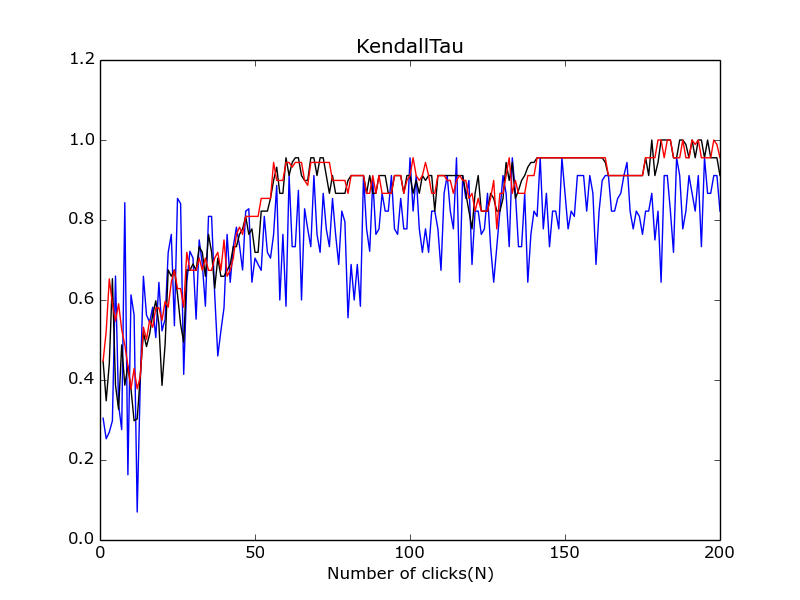
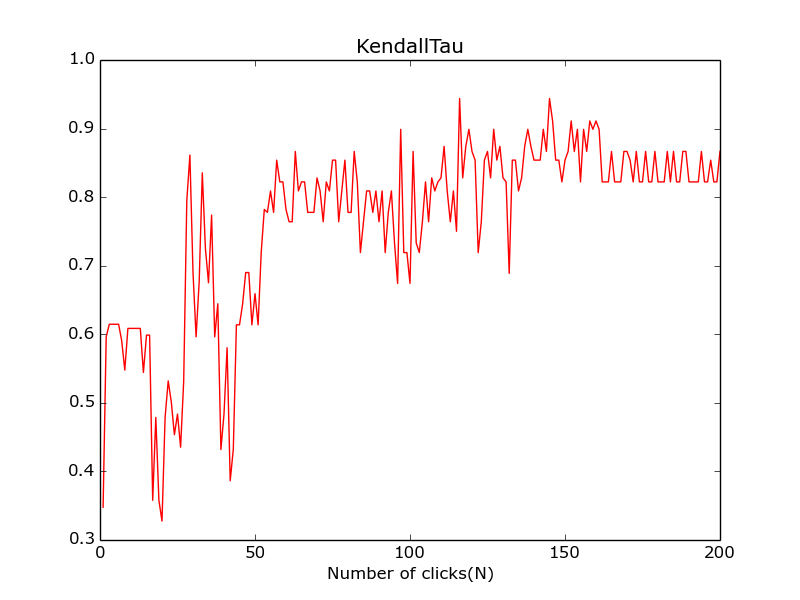
Major: User parameter PHI is now incorporated into the model and new function added for this new objective function and its gradient + some minor changes

diff --git a/ver2/runModelSim.py b/ver2/runModelSim.py
@@ -18,22 +18,25 @@ voteHist3 = [[0, [0, 1, 2, 3]], [0, [0, 1, 2, 3]], [0, [0, 1, 2, 3]], [0, [0, 1,
 #visualize.visualizeScat(voteHist5)
 #visualize.barPlot(simulation.runModel(voteHist5,len(voteHist5[-1][-1])))
 
-#print "6"
-#voteHist6 = [[0, [0, 1, 2]], [0, [0, 1, 2]], [0, [0, 1, 2]], [0, [0, 1, 2]], [0, [0, 1, 2, 3, 4]], [0, [0, 1, 2, 3, 4]], [0, [0, 1, 2, 3, 4, 5, 6, 7, 8, 9, 10]], [0, [0, 1, 2, 3, 4, 5, 6, 7, 8, 9, 10]], [0, [0, 1, 2, 3, 4, 5, 6, 7, 8, 9, 10]], [0, [0, 1, 2, 3, 4, 5, 6, 7, 8, 9, 10]], [0, [0, 1, 2, 3, 4, 5, 6, 7, 8, 9, 10]], [0, [0, 1, 2, 3, 4, 5, 6, 7, 8, 9, 10, 11, 12, 13, 14]], [0, [0, 1, 2, 3, 4, 5, 6, 7, 8, 9, 10, 11, 12, 13, 14]], [0, [0, 1, 2, 3, 4, 5, 6, 7, 8, 9, 10, 11, 12, 13, 14, 15, 16]], [0, [0, 1, 2, 3, 4, 5, 6, 7, 8, 9, 10, 11, 12, 13, 14, 15, 16, 17, 18, 19, 20]], [0, [0, 1, 2, 3, 4, 5, 6, 7, 8, 9, 10, 11, 12, 13, 14, 15, 16, 17, 18, 19, 20]], [0, [0, 1, 2, 3, 4, 5, 6, 7, 8, 9, 10, 11, 12, 13, 14, 15, 16, 17, 18, 19, 20, 21]], [1, [0, 1, 2]], [1, [0, 1, 2]], [1, [0, 1, 2]], [1, [0, 1, 2]], [1, [0, 1, 2]], [1, [0, 1, 2, 3, 4]], [1, [0, 1, 2, 3, 4]], [1, [0, 1, 2, 3, 4, 5, 6, 7, 8, 9, 10]], [1, [0, 1, 2, 3, 4, 5, 6, 7, 8, 9, 10]], [1, [0, 1, 2, 3, 4, 5, 6, 7, 8, 9, 10]], [1, [0, 1, 2, 3, 4, 5, 6, 7, 8, 9, 10]], [1, [0, 1, 2, 3, 4, 5, 6, 7, 8, 9, 10]], [1, [0, 1, 2, 3, 4, 5, 6, 7, 8, 9, 10]], [1, [0, 1, 2, 3, 4, 5, 6, 7, 8, 9, 10]], [1, [0, 1, 2, 3, 4, 5, 6, 7, 8, 9, 10]], [1, [0, 1, 2, 3, 4, 5, 6, 7, 8, 9, 10, 11, 12]], [1, [0, 1, 2, 3, 4, 5, 6, 7, 8, 9, 10, 11, 12]], [1, [0, 1, 2, 3, 4, 5, 6, 7, 8, 9, 10, 11, 12]], [1, [0, 1, 2, 3, 4, 5, 6, 7, 8, 9, 10, 11, 12, 13, 14]], [1, [0, 1, 2, 3, 4, 5, 6, 7, 8, 9, 10, 11, 12, 13, 14]], [1, [0, 1, 2, 3, 4, 5, 6, 7, 8, 9, 10, 11, 12, 13, 14]], [1, [0, 1, 2, 3, 4, 5, 6, 7, 8, 9, 10, 11, 12, 13, 14, 15, 16]], [1, [0, 1, 2, 3, 4, 5, 6, 7, 8, 9, 10, 11, 12, 13, 14, 15, 16, 17]], [1, [0, 1, 2, 3, 4, 5, 6, 7, 8, 9, 10, 11, 12, 13, 14, 15, 16, 17, 18, 19]], [1, [0, 1, 2, 3, 4, 5, 6, 7, 8, 9, 10, 11, 12, 13, 14, 15, 16, 17, 18, 19]], [1, [0, 1, 2, 3, 4, 5, 6, 7, 8, 9, 10, 11, 12, 13, 14, 15, 16, 17, 18, 19, 20]], [1, [0, 1, 2, 3, 4, 5, 6, 7, 8, 9, 10, 11, 12, 13, 14, 15, 16, 17, 18, 19, 20]], [1, [0, 1, 2, 3, 4, 5, 6, 7, 8, 9, 10, 11, 12, 13, 14, 15, 16, 17, 18, 19, 20]], [1, [0, 1, 2, 3, 4, 5, 6, 7, 8, 9, 10, 11, 12, 13, 14, 15, 16, 17, 18, 19, 20, 21]], [1, [0, 1, 2, 3, 4, 5, 6, 7, 8, 9, 10, 11, 12, 13, 14, 15, 16, 17, 18, 19, 20, 21]], [1, [0, 1, 2, 3, 4, 5, 6, 7, 8, 9, 10, 11, 12, 13, 14, 15, 16, 17, 18, 19, 20, 21]], [2, [0, 1, 2]], [2, [0, 1, 2]], [2, [0, 1, 2]], [2, [0, 1, 2]], [2, [0, 1, 2, 3, 4]], [2, [0, 1, 2, 3, 4]], [2, [0, 1, 2, 3, 4, 5, 6, 7, 8, 9, 10]], [2, [0, 1, 2, 3, 4, 5, 6, 7, 8, 9, 10]], [2, [0, 1, 2, 3, 4, 5, 6, 7, 8, 9, 10]], [2, [0, 1, 2, 3, 4, 5, 6, 7, 8, 9, 10]], [2, [0, 1, 2, 3, 4, 5, 6, 7, 8, 9, 10]], [2, [0, 1, 2, 3, 4, 5, 6, 7, 8, 9, 10]], [2, [0, 1, 2, 3, 4, 5, 6, 7, 8, 9, 10, 11, 12, 13, 14]], [2, [0, 1, 2, 3, 4, 5, 6, 7, 8, 9, 10, 11, 12, 13, 14, 15, 16]], [2, [0, 1, 2, 3, 4, 5, 6, 7, 8, 9, 10, 11, 12, 13, 14, 15, 16, 17, 18, 19, 20]], [2, [0, 1, 2, 3, 4, 5, 6, 7, 8, 9, 10, 11, 12, 13, 14, 15, 16, 17, 18, 19, 20]], [2, [0, 1, 2, 3, 4, 5, 6, 7, 8, 9, 10, 11, 12, 13, 14, 15, 16, 17, 18, 19, 20, 21]], [3, [0, 1, 2, 3]], [3, [0, 1, 2, 3, 4]], [3, [0, 1, 2, 3, 4]], [3, [0, 1, 2, 3, 4]], [3, [0, 1, 2, 3, 4]], [3, [0, 1, 2, 3, 4, 5, 6]], [3, [0, 1, 2, 3, 4, 5, 6, 7, 8, 9, 10]], [3, [0, 1, 2, 3, 4, 5, 6, 7, 8, 9, 10]], [3, [0, 1, 2, 3, 4, 5, 6, 7, 8, 9, 10]], [3, [0, 1, 2, 3, 4, 5, 6, 7, 8, 9, 10]], [3, [0, 1, 2, 3, 4, 5, 6, 7, 8, 9, 10]], [3, [0, 1, 2, 3, 4, 5, 6, 7, 8, 9, 10]], [3, [0, 1, 2, 3, 4, 5, 6, 7, 8, 9, 10]], [3, [0, 1, 2, 3, 4, 5, 6, 7, 8, 9, 10]], [3, [0, 1, 2, 3, 4, 5, 6, 7, 8, 9, 10]], [3, [0, 1, 2, 3, 4, 5, 6, 7, 8, 9, 10, 11, 12]], [3, [0, 1, 2, 3, 4, 5, 6, 7, 8, 9, 10, 11, 12]], [3, [0, 1, 2, 3, 4, 5, 6, 7, 8, 9, 10, 11, 12, 13, 14]], [3, [0, 1, 2, 3, 4, 5, 6, 7, 8, 9, 10, 11, 12, 13, 14, 15, 16]], [3, [0, 1, 2, 3, 4, 5, 6, 7, 8, 9, 10, 11, 12, 13, 14, 15, 16, 17]], [3, [0, 1, 2, 3, 4, 5, 6, 7, 8, 9, 10, 11, 12, 13, 14, 15, 16, 17, 18, 19]], [3, [0, 1, 2, 3, 4, 5, 6, 7, 8, 9, 10, 11, 12, 13, 14, 15, 16, 17, 18, 19, 20]], [3, [0, 1, 2, 3, 4, 5, 6, 7, 8, 9, 10, 11, 12, 13, 14, 15, 16, 17, 18, 19, 20]], [3, [0, 1, 2, 3, 4, 5, 6, 7, 8, 9, 10, 11, 12, 13, 14, 15, 16, 17, 18, 19, 20, 21]], [3, [0, 1, 2, 3, 4, 5, 6, 7, 8, 9, 10, 11, 12, 13, 14, 15, 16, 17, 18, 19, 20, 21]], [3, [0, 1, 2, 3, 4, 5, 6, 7, 8, 9, 10, 11, 12, 13, 14, 15, 16, 17, 18, 19, 20, 21]], [4, [0, 1, 2, 3, 4]], [4, [0, 1, 2, 3, 4]], [4, [0, 1, 2, 3, 4]], [4, [0, 1, 2, 3, 4, 5, 6, 7, 8, 9, 10]], [4, [0, 1, 2, 3, 4, 5, 6, 7, 8, 9, 10]], [4, [0, 1, 2, 3, 4, 5, 6, 7, 8, 9, 10]], [4, [0, 1, 2, 3, 4, 5, 6, 7, 8, 9, 10]], [4, [0, 1, 2, 3, 4, 5, 6, 7, 8, 9, 10, 11, 12, 13, 14]], [4, [0, 1, 2, 3, 4, 5, 6, 7, 8, 9, 10, 11, 12, 13, 14, 15, 16, 17, 18, 19]], [4, [0, 1, 2, 3, 4, 5, 6, 7, 8, 9, 10, 11, 12, 13, 14, 15, 16, 17, 18, 19, 20]], [4, [0, 1, 2, 3, 4, 5, 6, 7, 8, 9, 10, 11, 12, 13, 14, 15, 16, 17, 18, 19, 20]], [4, [0, 1, 2, 3, 4, 5, 6, 7, 8, 9, 10, 11, 12, 13, 14, 15, 16, 17, 18, 19, 20, 21]], [4, [0, 1, 2, 3, 4, 5, 6, 7, 8, 9, 10, 11, 12, 13, 14, 15, 16, 17, 18, 19, 20, 21]], [5, [0, 1, 2, 3, 4, 5]], [5, [0, 1, 2, 3, 4, 5]], [5, [0, 1, 2, 3, 4, 5, 6, 7, 8, 9, 10]], [5, [0, 1, 2, 3, 4, 5, 6, 7, 8, 9, 10]], [5, [0, 1, 2, 3, 4, 5, 6, 7, 8, 9, 10, 11, 12, 13]], [5, [0, 1, 2, 3, 4, 5, 6, 7, 8, 9, 10, 11, 12, 13, 14, 15, 16, 17, 18, 19, 20]], [5, [0, 1, 2, 3, 4, 5, 6, 7, 8, 9, 10, 11, 12, 13, 14, 15, 16, 17, 18, 19, 20]], [5, [0, 1, 2, 3, 4, 5, 6, 7, 8, 9, 10, 11, 12, 13, 14, 15, 16, 17, 18, 19, 20, 21]], [5, [0, 1, 2, 3, 4, 5, 6, 7, 8, 9, 10, 11, 12, 13, 14, 15, 16, 17, 18, 19, 20, 21]], [6, [0, 1, 2, 3, 4, 5, 6]], [6, [0, 1, 2, 3, 4, 5, 6]], [6, [0, 1, 2, 3, 4, 5, 6, 7, 8, 9, 10]], [6, [0, 1, 2, 3, 4, 5, 6, 7, 8, 9, 10]], [6, [0, 1, 2, 3, 4, 5, 6, 7, 8, 9, 10]], [6, [0, 1, 2, 3, 4, 5, 6, 7, 8, 9, 10]], [6, [0, 1, 2, 3, 4, 5, 6, 7, 8, 9, 10, 11, 12, 13, 14, 15, 16, 17, 18, 19, 20]], [6, [0, 1, 2, 3, 4, 5, 6, 7, 8, 9, 10, 11, 12, 13, 14, 15, 16, 17, 18, 19, 20]], [6, [0, 1, 2, 3, 4, 5, 6, 7, 8, 9, 10, 11, 12, 13, 14, 15, 16, 17, 18, 19, 20, 21]], [7, [0, 1, 2, 3, 4, 5, 6, 7, 8, 9, 10]], [7, [0, 1, 2, 3, 4, 5, 6, 7, 8, 9, 10]], [7, [0, 1, 2, 3, 4, 5, 6, 7, 8, 9, 10]], [7, [0, 1, 2, 3, 4, 5, 6, 7, 8, 9, 10]], [7, [0, 1, 2, 3, 4, 5, 6, 7, 8, 9, 10, 11, 12, 13, 14, 15, 16, 17, 18, 19, 20]], [7, [0, 1, 2, 3, 4, 5, 6, 7, 8, 9, 10, 11, 12, 13, 14, 15, 16, 17, 18, 19, 20]], [7, [0, 1, 2, 3, 4, 5, 6, 7, 8, 9, 10, 11, 12, 13, 14, 15, 16, 17, 18, 19, 20, 21]], [7, [0, 1, 2, 3, 4, 5, 6, 7, 8, 9, 10, 11, 12, 13, 14, 15, 16, 17, 18, 19, 20, 21]], [8, [0, 1, 2, 3, 4, 5, 6, 7, 8, 9, 10]], [8, [0, 1, 2, 3, 4, 5, 6, 7, 8, 9, 10]], [8, [0, 1, 2, 3, 4, 5, 6, 7, 8, 9, 10]], [8, [0, 1, 2, 3, 4, 5, 6, 7, 8, 9, 10]], [8, [0, 1, 2, 3, 4, 5, 6, 7, 8, 9, 10]], [8, [0, 1, 2, 3, 4, 5, 6, 7, 8, 9, 10]], [8, [0, 1, 2, 3, 4, 5, 6, 7, 8, 9, 10, 11, 12, 13, 14]], [8, [0, 1, 2, 3, 4, 5, 6, 7, 8, 9, 10, 11, 12, 13, 14, 15, 16, 17, 18, 19, 20]], [8, [0, 1, 2, 3, 4, 5, 6, 7, 8, 9, 10, 11, 12, 13, 14, 15, 16, 17, 18, 19, 20]], [8, [0, 1, 2, 3, 4, 5, 6, 7, 8, 9, 10, 11, 12, 13, 14, 15, 16, 17, 18, 19, 20, 21]], [8, [0, 1, 2, 3, 4, 5, 6, 7, 8, 9, 10, 11, 12, 13, 14, 15, 16, 17, 18, 19, 20, 21]], [9, [0, 1, 2, 3, 4, 5, 6, 7, 8, 9, 10]], [9, [0, 1, 2, 3, 4, 5, 6, 7, 8, 9, 10]], [9, [0, 1, 2, 3, 4, 5, 6, 7, 8, 9, 10]], [9, [0, 1, 2, 3, 4, 5, 6, 7, 8, 9, 10, 11, 12, 13, 14, 15, 16, 17, 18, 19, 20]], [9, [0, 1, 2, 3, 4, 5, 6, 7, 8, 9, 10, 11, 12, 13, 14, 15, 16, 17, 18, 19, 20]], [9, [0, 1, 2, 3, 4, 5, 6, 7, 8, 9, 10, 11, 12, 13, 14, 15, 16, 17, 18, 19, 20, 21]], [10, [0, 1, 2, 3, 4, 5, 6, 7, 8, 9, 10]], [10, [0, 1, 2, 3, 4, 5, 6, 7, 8, 9, 10]], [10, [0, 1, 2, 3, 4, 5, 6, 7, 8, 9, 10]], [10, [0, 1, 2, 3, 4, 5, 6, 7, 8, 9, 10]], [10, [0, 1, 2, 3, 4, 5, 6, 7, 8, 9, 10]], [10, [0, 1, 2, 3, 4, 5, 6, 7, 8, 9, 10]], [10, [0, 1, 2, 3, 4, 5, 6, 7, 8, 9, 10, 11, 12, 13, 14, 15, 16, 17, 18, 19, 20]], [10, [0, 1, 2, 3, 4, 5, 6, 7, 8, 9, 10, 11, 12, 13, 14, 15, 16, 17, 18, 19, 20, 21]], [10, [0, 1, 2, 3, 4, 5, 6, 7, 8, 9, 10, 11, 12, 13, 14, 15, 16, 17, 18, 19, 20, 21]], [11, [0, 1, 2, 3, 4, 5, 6, 7, 8, 9, 10, 11]], [11, [0, 1, 2, 3, 4, 5, 6, 7, 8, 9, 10, 11]], [11, [0, 1, 2, 3, 4, 5, 6, 7, 8, 9, 10, 11, 12, 13, 14, 15, 16, 17, 18, 19, 20]], [11, [0, 1, 2, 3, 4, 5, 6, 7, 8, 9, 10, 11, 12, 13, 14, 15, 16, 17, 18, 19, 20]], [11, [0, 1, 2, 3, 4, 5, 6, 7, 8, 9, 10, 11, 12, 13, 14, 15, 16, 17, 18, 19, 20, 21]], [11, [0, 1, 2, 3, 4, 5, 6, 7, 8, 9, 10, 11, 12, 13, 14, 15, 16, 17, 18, 19, 20, 21]], [12, [0, 1, 2, 3, 4, 5, 6, 7, 8, 9, 10, 11, 12]], [12, [0, 1, 2, 3, 4, 5, 6, 7, 8, 9, 10, 11, 12]], [12, [0, 1, 2, 3, 4, 5, 6, 7, 8, 9, 10, 11, 12, 13, 14, 15, 16, 17, 18, 19, 20]], [12, [0, 1, 2, 3, 4, 5, 6, 7, 8, 9, 10, 11, 12, 13, 14, 15, 16, 17, 18, 19, 20]], [12, [0, 1, 2, 3, 4, 5, 6, 7, 8, 9, 10, 11, 12, 13, 14, 15, 16, 17, 18, 19, 20, 21]], [12, [0, 1, 2, 3, 4, 5, 6, 7, 8, 9, 10, 11, 12, 13, 14, 15, 16, 17, 18, 19, 20, 21]], [13, [0, 1, 2, 3, 4, 5, 6, 7, 8, 9, 10, 11, 12, 13]], [13, [0, 1, 2, 3, 4, 5, 6, 7, 8, 9, 10, 11, 12, 13]], [13, [0, 1, 2, 3, 4, 5, 6, 7, 8, 9, 10, 11, 12, 13, 14]], [13, [0, 1, 2, 3, 4, 5, 6, 7, 8, 9, 10, 11, 12, 13, 14, 15, 16, 17, 18, 19]], [13, [0, 1, 2, 3, 4, 5, 6, 7, 8, 9, 10, 11, 12, 13, 14, 15, 16, 17, 18, 19, 20]], [13, [0, 1, 2, 3, 4, 5, 6, 7, 8, 9, 10, 11, 12, 13, 14, 15, 16, 17, 18, 19, 20]], [13, [0, 1, 2, 3, 4, 5, 6, 7, 8, 9, 10, 11, 12, 13, 14, 15, 16, 17, 18, 19, 20, 21]], [13, [0, 1, 2, 3, 4, 5, 6, 7, 8, 9, 10, 11, 12, 13, 14, 15, 16, 17, 18, 19, 20, 21]], [14, [0, 1, 2, 3, 4, 5, 6, 7, 8, 9, 10, 11, 12, 13, 14]], [14, [0, 1, 2, 3, 4, 5, 6, 7, 8, 9, 10, 11, 12, 13, 14, 15, 16, 17, 18, 19, 20]], [14, [0, 1, 2, 3, 4, 5, 6, 7, 8, 9, 10, 11, 12, 13, 14, 15, 16, 17, 18, 19, 20]], [14, [0, 1, 2, 3, 4, 5, 6, 7, 8, 9, 10, 11, 12, 13, 14, 15, 16, 17, 18, 19, 20, 21]], [14, [0, 1, 2, 3, 4, 5, 6, 7, 8, 9, 10, 11, 12, 13, 14, 15, 16, 17, 18, 19, 20, 21]], [15, [0, 1, 2, 3, 4, 5, 6, 7, 8, 9, 10, 11, 12, 13, 14, 15]], [15, [0, 1, 2, 3, 4, 5, 6, 7, 8, 9, 10, 11, 12, 13, 14, 15, 16, 17, 18, 19, 20]], [15, [0, 1, 2, 3, 4, 5, 6, 7, 8, 9, 10, 11, 12, 13, 14, 15, 16, 17, 18, 19, 20]], [15, [0, 1, 2, 3, 4, 5, 6, 7, 8, 9, 10, 11, 12, 13, 14, 15, 16, 17, 18, 19, 20, 21]], [15, [0, 1, 2, 3, 4, 5, 6, 7, 8, 9, 10, 11, 12, 13, 14, 15, 16, 17, 18, 19, 20, 21]], [16, [0, 1, 2, 3, 4, 5, 6, 7, 8, 9, 10, 11, 12, 13, 14, 15, 16]], [16, [0, 1, 2, 3, 4, 5, 6, 7, 8, 9, 10, 11, 12, 13, 14, 15, 16]], [16, [0, 1, 2, 3, 4, 5, 6, 7, 8, 9, 10, 11, 12, 13, 14, 15, 16, 17, 18, 19]], [16, [0, 1, 2, 3, 4, 5, 6, 7, 8, 9, 10, 11, 12, 13, 14, 15, 16, 17, 18, 19, 20]], [16, [0, 1, 2, 3, 4, 5, 6, 7, 8, 9, 10, 11, 12, 13, 14, 15, 16, 17, 18, 19, 20]], [16, [0, 1, 2, 3, 4, 5, 6, 7, 8, 9, 10, 11, 12, 13, 14, 15, 16, 17, 18, 19, 20, 21]], [16, [0, 1, 2, 3, 4, 5, 6, 7, 8, 9, 10, 11, 12, 13, 14, 15, 16, 17, 18, 19, 20, 21]], [17, [0, 1, 2, 3, 4, 5, 6, 7, 8, 9, 10, 11, 12, 13, 14, 15, 16, 17, 18, 19, 20, 21]], [18, [0, 1, 2, 3, 4, 5, 6, 7, 8, 9, 10, 11, 12, 13, 14, 15, 16, 17, 18, 19, 20]], [18, [0, 1, 2, 3, 4, 5, 6, 7, 8, 9, 10, 11, 12, 13, 14, 15, 16, 17, 18, 19, 20, 21]], [18, [0, 1, 2, 3, 4, 5, 6, 7, 8, 9, 10, 11, 12, 13, 14, 15, 16, 17, 18, 19, 20, 21]], [19, [0, 1, 2, 3, 4, 5, 6, 7, 8, 9, 10, 11, 12, 13, 14, 15, 16, 17, 18, 19]], [19, [0, 1, 2, 3, 4, 5, 6, 7, 8, 9, 10, 11, 12, 13, 14, 15, 16, 17, 18, 19]], [19, [0, 1, 2, 3, 4, 5, 6, 7, 8, 9, 10, 11, 12, 13, 14, 15, 16, 17, 18, 19, 20]], [19, [0, 1, 2, 3, 4, 5, 6, 7, 8, 9, 10, 11, 12, 13, 14, 15, 16, 17, 18, 19, 20]], [19, [0, 1, 2, 3, 4, 5, 6, 7, 8, 9, 10, 11, 12, 13, 14, 15, 16, 17, 18, 19, 20]], [19, [0, 1, 2, 3, 4, 5, 6, 7, 8, 9, 10, 11, 12, 13, 14, 15, 16, 17, 18, 19, 20, 21]], [19, [0, 1, 2, 3, 4, 5, 6, 7, 8, 9, 10, 11, 12, 13, 14, 15, 16, 17, 18, 19, 20, 21]], [20, [0, 1, 2, 3, 4, 5, 6, 7, 8, 9, 10, 11, 12, 13, 14, 15, 16, 17, 18, 19, 20]], [20, [0, 1, 2, 3, 4, 5, 6, 7, 8, 9, 10, 11, 12, 13, 14, 15, 16, 17, 18, 19, 20]], [20, [0, 1, 2, 3, 4, 5, 6, 7, 8, 9, 10, 11, 12, 13, 14, 15, 16, 17, 18, 19, 20]], [20, [0, 1, 2, 3, 4, 5, 6, 7, 8, 9, 10, 11, 12, 13, 14, 15, 16, 17, 18, 19, 20, 21]], [20, [0, 1, 2, 3, 4, 5, 6, 7, 8, 9, 10, 11, 12, 13, 14, 15, 16, 17, 18, 19, 20, 21]], [21, [0, 1, 2, 3, 4, 5, 6, 7, 8, 9, 10, 11, 12, 13, 14, 15, 16, 17, 18, 19, 20, 21]], [21, [0, 1, 2, 3, 4, 5, 6, 7, 8, 9, 10, 11, 12, 13, 14, 15, 16, 17, 18, 19, 20, 21]], [21, [0, 1, 2, 3, 4, 5, 6, 7, 8, 9, 10, 11, 12, 13, 14, 15, 16, 17, 18, 19, 20, 21]]]
-#visualize.visualizeScat(voteHist6)
-#visualize.barPlot(simulation.runModel(voteHist6,len(voteHist6[-1][-1])))
-#
-#print "7"
-#voteHist7 = [[0, [0, 1, 2]], [0, [0, 1, 2]], [0, [0, 1, 2, 3, 4]], [0, [0, 1, 2, 3, 4]], [1, [0, 1, 2]], [1, [0, 1, 2]], [1, [0, 1, 2, 3]], [1, [0, 1, 2, 3, 4]], [1, [0, 1, 2, 3, 4]], [1, [0, 1, 2, 3, 4]], [3, [0, 1, 2, 3, 4]], [3, [0, 1, 2, 3, 4]], [3, [0, 1, 2, 3, 4]], [3, [0, 1, 2, 3, 4]], [4, [0, 1, 2, 3, 4]], [4, [0, 1, 2, 3, 4]], [4, [0, 1, 2, 3, 4]], [4, [0, 1, 2, 3, 4]], [4, [0, 1, 2, 3, 4]], [4, [0, 1, 2, 3, 4]], [4, [0, 1, 2, 3, 4]]]
-#visualize.visualizeScat(voteHist7)
-#visualize.barPlot(simulation.runModel(voteHist7,len(voteHist7[-1][-1])))
+print "6"
+voteHist6 = [[0, [0, 1, 2]], [0, [0, 1, 2]], [0, [0, 1, 2]], [0, [0, 1, 2]], [0, [0, 1, 2, 3, 4]], [0, [0, 1, 2, 3, 4]], [0, [0, 1, 2, 3, 4, 5, 6, 7, 8, 9, 10]], [0, [0, 1, 2, 3, 4, 5, 6, 7, 8, 9, 10]], [0, [0, 1, 2, 3, 4, 5, 6, 7, 8, 9, 10]], [0, [0, 1, 2, 3, 4, 5, 6, 7, 8, 9, 10]], [0, [0, 1, 2, 3, 4, 5, 6, 7, 8, 9, 10]], [0, [0, 1, 2, 3, 4, 5, 6, 7, 8, 9, 10, 11, 12, 13, 14]], [0, [0, 1, 2, 3, 4, 5, 6, 7, 8, 9, 10, 11, 12, 13, 14]], [0, [0, 1, 2, 3, 4, 5, 6, 7, 8, 9, 10, 11, 12, 13, 14, 15, 16]], [0, [0, 1, 2, 3, 4, 5, 6, 7, 8, 9, 10, 11, 12, 13, 14, 15, 16, 17, 18, 19, 20]], [0, [0, 1, 2, 3, 4, 5, 6, 7, 8, 9, 10, 11, 12, 13, 14, 15, 16, 17, 18, 19, 20]], [0, [0, 1, 2, 3, 4, 5, 6, 7, 8, 9, 10, 11, 12, 13, 14, 15, 16, 17, 18, 19, 20, 21]], [1, [0, 1, 2]], [1, [0, 1, 2]], [1, [0, 1, 2]], [1, [0, 1, 2]], [1, [0, 1, 2]], [1, [0, 1, 2, 3, 4]], [1, [0, 1, 2, 3, 4]], [1, [0, 1, 2, 3, 4, 5, 6, 7, 8, 9, 10]], [1, [0, 1, 2, 3, 4, 5, 6, 7, 8, 9, 10]], [1, [0, 1, 2, 3, 4, 5, 6, 7, 8, 9, 10]], [1, [0, 1, 2, 3, 4, 5, 6, 7, 8, 9, 10]], [1, [0, 1, 2, 3, 4, 5, 6, 7, 8, 9, 10]], [1, [0, 1, 2, 3, 4, 5, 6, 7, 8, 9, 10]], [1, [0, 1, 2, 3, 4, 5, 6, 7, 8, 9, 10]], [1, [0, 1, 2, 3, 4, 5, 6, 7, 8, 9, 10]], [1, [0, 1, 2, 3, 4, 5, 6, 7, 8, 9, 10, 11, 12]], [1, [0, 1, 2, 3, 4, 5, 6, 7, 8, 9, 10, 11, 12]], [1, [0, 1, 2, 3, 4, 5, 6, 7, 8, 9, 10, 11, 12]], [1, [0, 1, 2, 3, 4, 5, 6, 7, 8, 9, 10, 11, 12, 13, 14]], [1, [0, 1, 2, 3, 4, 5, 6, 7, 8, 9, 10, 11, 12, 13, 14]], [1, [0, 1, 2, 3, 4, 5, 6, 7, 8, 9, 10, 11, 12, 13, 14]], [1, [0, 1, 2, 3, 4, 5, 6, 7, 8, 9, 10, 11, 12, 13, 14, 15, 16]], [1, [0, 1, 2, 3, 4, 5, 6, 7, 8, 9, 10, 11, 12, 13, 14, 15, 16, 17]], [1, [0, 1, 2, 3, 4, 5, 6, 7, 8, 9, 10, 11, 12, 13, 14, 15, 16, 17, 18, 19]], [1, [0, 1, 2, 3, 4, 5, 6, 7, 8, 9, 10, 11, 12, 13, 14, 15, 16, 17, 18, 19]], [1, [0, 1, 2, 3, 4, 5, 6, 7, 8, 9, 10, 11, 12, 13, 14, 15, 16, 17, 18, 19, 20]], [1, [0, 1, 2, 3, 4, 5, 6, 7, 8, 9, 10, 11, 12, 13, 14, 15, 16, 17, 18, 19, 20]], [1, [0, 1, 2, 3, 4, 5, 6, 7, 8, 9, 10, 11, 12, 13, 14, 15, 16, 17, 18, 19, 20]], [1, [0, 1, 2, 3, 4, 5, 6, 7, 8, 9, 10, 11, 12, 13, 14, 15, 16, 17, 18, 19, 20, 21]], [1, [0, 1, 2, 3, 4, 5, 6, 7, 8, 9, 10, 11, 12, 13, 14, 15, 16, 17, 18, 19, 20, 21]], [1, [0, 1, 2, 3, 4, 5, 6, 7, 8, 9, 10, 11, 12, 13, 14, 15, 16, 17, 18, 19, 20, 21]], [2, [0, 1, 2]], [2, [0, 1, 2]], [2, [0, 1, 2]], [2, [0, 1, 2]], [2, [0, 1, 2, 3, 4]], [2, [0, 1, 2, 3, 4]], [2, [0, 1, 2, 3, 4, 5, 6, 7, 8, 9, 10]], [2, [0, 1, 2, 3, 4, 5, 6, 7, 8, 9, 10]], [2, [0, 1, 2, 3, 4, 5, 6, 7, 8, 9, 10]], [2, [0, 1, 2, 3, 4, 5, 6, 7, 8, 9, 10]], [2, [0, 1, 2, 3, 4, 5, 6, 7, 8, 9, 10]], [2, [0, 1, 2, 3, 4, 5, 6, 7, 8, 9, 10]], [2, [0, 1, 2, 3, 4, 5, 6, 7, 8, 9, 10, 11, 12, 13, 14]], [2, [0, 1, 2, 3, 4, 5, 6, 7, 8, 9, 10, 11, 12, 13, 14, 15, 16]], [2, [0, 1, 2, 3, 4, 5, 6, 7, 8, 9, 10, 11, 12, 13, 14, 15, 16, 17, 18, 19, 20]], [2, [0, 1, 2, 3, 4, 5, 6, 7, 8, 9, 10, 11, 12, 13, 14, 15, 16, 17, 18, 19, 20]], [2, [0, 1, 2, 3, 4, 5, 6, 7, 8, 9, 10, 11, 12, 13, 14, 15, 16, 17, 18, 19, 20, 21]], [3, [0, 1, 2, 3]], [3, [0, 1, 2, 3, 4]], [3, [0, 1, 2, 3, 4]], [3, [0, 1, 2, 3, 4]], [3, [0, 1, 2, 3, 4]], [3, [0, 1, 2, 3, 4, 5, 6]], [3, [0, 1, 2, 3, 4, 5, 6, 7, 8, 9, 10]], [3, [0, 1, 2, 3, 4, 5, 6, 7, 8, 9, 10]], [3, [0, 1, 2, 3, 4, 5, 6, 7, 8, 9, 10]], [3, [0, 1, 2, 3, 4, 5, 6, 7, 8, 9, 10]], [3, [0, 1, 2, 3, 4, 5, 6, 7, 8, 9, 10]], [3, [0, 1, 2, 3, 4, 5, 6, 7, 8, 9, 10]], [3, [0, 1, 2, 3, 4, 5, 6, 7, 8, 9, 10]], [3, [0, 1, 2, 3, 4, 5, 6, 7, 8, 9, 10]], [3, [0, 1, 2, 3, 4, 5, 6, 7, 8, 9, 10]], [3, [0, 1, 2, 3, 4, 5, 6, 7, 8, 9, 10, 11, 12]], [3, [0, 1, 2, 3, 4, 5, 6, 7, 8, 9, 10, 11, 12]], [3, [0, 1, 2, 3, 4, 5, 6, 7, 8, 9, 10, 11, 12, 13, 14]], [3, [0, 1, 2, 3, 4, 5, 6, 7, 8, 9, 10, 11, 12, 13, 14, 15, 16]], [3, [0, 1, 2, 3, 4, 5, 6, 7, 8, 9, 10, 11, 12, 13, 14, 15, 16, 17]], [3, [0, 1, 2, 3, 4, 5, 6, 7, 8, 9, 10, 11, 12, 13, 14, 15, 16, 17, 18, 19]], [3, [0, 1, 2, 3, 4, 5, 6, 7, 8, 9, 10, 11, 12, 13, 14, 15, 16, 17, 18, 19, 20]], [3, [0, 1, 2, 3, 4, 5, 6, 7, 8, 9, 10, 11, 12, 13, 14, 15, 16, 17, 18, 19, 20]], [3, [0, 1, 2, 3, 4, 5, 6, 7, 8, 9, 10, 11, 12, 13, 14, 15, 16, 17, 18, 19, 20, 21]], [3, [0, 1, 2, 3, 4, 5, 6, 7, 8, 9, 10, 11, 12, 13, 14, 15, 16, 17, 18, 19, 20, 21]], [3, [0, 1, 2, 3, 4, 5, 6, 7, 8, 9, 10, 11, 12, 13, 14, 15, 16, 17, 18, 19, 20, 21]], [4, [0, 1, 2, 3, 4]], [4, [0, 1, 2, 3, 4]], [4, [0, 1, 2, 3, 4]], [4, [0, 1, 2, 3, 4, 5, 6, 7, 8, 9, 10]], [4, [0, 1, 2, 3, 4, 5, 6, 7, 8, 9, 10]], [4, [0, 1, 2, 3, 4, 5, 6, 7, 8, 9, 10]], [4, [0, 1, 2, 3, 4, 5, 6, 7, 8, 9, 10]], [4, [0, 1, 2, 3, 4, 5, 6, 7, 8, 9, 10, 11, 12, 13, 14]], [4, [0, 1, 2, 3, 4, 5, 6, 7, 8, 9, 10, 11, 12, 13, 14, 15, 16, 17, 18, 19]], [4, [0, 1, 2, 3, 4, 5, 6, 7, 8, 9, 10, 11, 12, 13, 14, 15, 16, 17, 18, 19, 20]], [4, [0, 1, 2, 3, 4, 5, 6, 7, 8, 9, 10, 11, 12, 13, 14, 15, 16, 17, 18, 19, 20]], [4, [0, 1, 2, 3, 4, 5, 6, 7, 8, 9, 10, 11, 12, 13, 14, 15, 16, 17, 18, 19, 20, 21]], [4, [0, 1, 2, 3, 4, 5, 6, 7, 8, 9, 10, 11, 12, 13, 14, 15, 16, 17, 18, 19, 20, 21]], [5, [0, 1, 2, 3, 4, 5]], [5, [0, 1, 2, 3, 4, 5]], [5, [0, 1, 2, 3, 4, 5, 6, 7, 8, 9, 10]], [5, [0, 1, 2, 3, 4, 5, 6, 7, 8, 9, 10]], [5, [0, 1, 2, 3, 4, 5, 6, 7, 8, 9, 10, 11, 12, 13]], [5, [0, 1, 2, 3, 4, 5, 6, 7, 8, 9, 10, 11, 12, 13, 14, 15, 16, 17, 18, 19, 20]], [5, [0, 1, 2, 3, 4, 5, 6, 7, 8, 9, 10, 11, 12, 13, 14, 15, 16, 17, 18, 19, 20]], [5, [0, 1, 2, 3, 4, 5, 6, 7, 8, 9, 10, 11, 12, 13, 14, 15, 16, 17, 18, 19, 20, 21]], [5, [0, 1, 2, 3, 4, 5, 6, 7, 8, 9, 10, 11, 12, 13, 14, 15, 16, 17, 18, 19, 20, 21]], [6, [0, 1, 2, 3, 4, 5, 6]], [6, [0, 1, 2, 3, 4, 5, 6]], [6, [0, 1, 2, 3, 4, 5, 6, 7, 8, 9, 10]], [6, [0, 1, 2, 3, 4, 5, 6, 7, 8, 9, 10]], [6, [0, 1, 2, 3, 4, 5, 6, 7, 8, 9, 10]], [6, [0, 1, 2, 3, 4, 5, 6, 7, 8, 9, 10]], [6, [0, 1, 2, 3, 4, 5, 6, 7, 8, 9, 10, 11, 12, 13, 14, 15, 16, 17, 18, 19, 20]], [6, [0, 1, 2, 3, 4, 5, 6, 7, 8, 9, 10, 11, 12, 13, 14, 15, 16, 17, 18, 19, 20]], [6, [0, 1, 2, 3, 4, 5, 6, 7, 8, 9, 10, 11, 12, 13, 14, 15, 16, 17, 18, 19, 20, 21]], [7, [0, 1, 2, 3, 4, 5, 6, 7, 8, 9, 10]], [7, [0, 1, 2, 3, 4, 5, 6, 7, 8, 9, 10]], [7, [0, 1, 2, 3, 4, 5, 6, 7, 8, 9, 10]], [7, [0, 1, 2, 3, 4, 5, 6, 7, 8, 9, 10]], [7, [0, 1, 2, 3, 4, 5, 6, 7, 8, 9, 10, 11, 12, 13, 14, 15, 16, 17, 18, 19, 20]], [7, [0, 1, 2, 3, 4, 5, 6, 7, 8, 9, 10, 11, 12, 13, 14, 15, 16, 17, 18, 19, 20]], [7, [0, 1, 2, 3, 4, 5, 6, 7, 8, 9, 10, 11, 12, 13, 14, 15, 16, 17, 18, 19, 20, 21]], [7, [0, 1, 2, 3, 4, 5, 6, 7, 8, 9, 10, 11, 12, 13, 14, 15, 16, 17, 18, 19, 20, 21]], [8, [0, 1, 2, 3, 4, 5, 6, 7, 8, 9, 10]], [8, [0, 1, 2, 3, 4, 5, 6, 7, 8, 9, 10]], [8, [0, 1, 2, 3, 4, 5, 6, 7, 8, 9, 10]], [8, [0, 1, 2, 3, 4, 5, 6, 7, 8, 9, 10]], [8, [0, 1, 2, 3, 4, 5, 6, 7, 8, 9, 10]], [8, [0, 1, 2, 3, 4, 5, 6, 7, 8, 9, 10]], [8, [0, 1, 2, 3, 4, 5, 6, 7, 8, 9, 10, 11, 12, 13, 14]], [8, [0, 1, 2, 3, 4, 5, 6, 7, 8, 9, 10, 11, 12, 13, 14, 15, 16, 17, 18, 19, 20]], [8, [0, 1, 2, 3, 4, 5, 6, 7, 8, 9, 10, 11, 12, 13, 14, 15, 16, 17, 18, 19, 20]], [8, [0, 1, 2, 3, 4, 5, 6, 7, 8, 9, 10, 11, 12, 13, 14, 15, 16, 17, 18, 19, 20, 21]], [8, [0, 1, 2, 3, 4, 5, 6, 7, 8, 9, 10, 11, 12, 13, 14, 15, 16, 17, 18, 19, 20, 21]], [9, [0, 1, 2, 3, 4, 5, 6, 7, 8, 9, 10]], [9, [0, 1, 2, 3, 4, 5, 6, 7, 8, 9, 10]], [9, [0, 1, 2, 3, 4, 5, 6, 7, 8, 9, 10]], [9, [0, 1, 2, 3, 4, 5, 6, 7, 8, 9, 10, 11, 12, 13, 14, 15, 16, 17, 18, 19, 20]], [9, [0, 1, 2, 3, 4, 5, 6, 7, 8, 9, 10, 11, 12, 13, 14, 15, 16, 17, 18, 19, 20]], [9, [0, 1, 2, 3, 4, 5, 6, 7, 8, 9, 10, 11, 12, 13, 14, 15, 16, 17, 18, 19, 20, 21]], [10, [0, 1, 2, 3, 4, 5, 6, 7, 8, 9, 10]], [10, [0, 1, 2, 3, 4, 5, 6, 7, 8, 9, 10]], [10, [0, 1, 2, 3, 4, 5, 6, 7, 8, 9, 10]], [10, [0, 1, 2, 3, 4, 5, 6, 7, 8, 9, 10]], [10, [0, 1, 2, 3, 4, 5, 6, 7, 8, 9, 10]], [10, [0, 1, 2, 3, 4, 5, 6, 7, 8, 9, 10]], [10, [0, 1, 2, 3, 4, 5, 6, 7, 8, 9, 10, 11, 12, 13, 14, 15, 16, 17, 18, 19, 20]], [10, [0, 1, 2, 3, 4, 5, 6, 7, 8, 9, 10, 11, 12, 13, 14, 15, 16, 17, 18, 19, 20, 21]], [10, [0, 1, 2, 3, 4, 5, 6, 7, 8, 9, 10, 11, 12, 13, 14, 15, 16, 17, 18, 19, 20, 21]], [11, [0, 1, 2, 3, 4, 5, 6, 7, 8, 9, 10, 11]], [11, [0, 1, 2, 3, 4, 5, 6, 7, 8, 9, 10, 11]], [11, [0, 1, 2, 3, 4, 5, 6, 7, 8, 9, 10, 11, 12, 13, 14, 15, 16, 17, 18, 19, 20]], [11, [0, 1, 2, 3, 4, 5, 6, 7, 8, 9, 10, 11, 12, 13, 14, 15, 16, 17, 18, 19, 20]], [11, [0, 1, 2, 3, 4, 5, 6, 7, 8, 9, 10, 11, 12, 13, 14, 15, 16, 17, 18, 19, 20, 21]], [11, [0, 1, 2, 3, 4, 5, 6, 7, 8, 9, 10, 11, 12, 13, 14, 15, 16, 17, 18, 19, 20, 21]], [12, [0, 1, 2, 3, 4, 5, 6, 7, 8, 9, 10, 11, 12]], [12, [0, 1, 2, 3, 4, 5, 6, 7, 8, 9, 10, 11, 12]], [12, [0, 1, 2, 3, 4, 5, 6, 7, 8, 9, 10, 11, 12, 13, 14, 15, 16, 17, 18, 19, 20]], [12, [0, 1, 2, 3, 4, 5, 6, 7, 8, 9, 10, 11, 12, 13, 14, 15, 16, 17, 18, 19, 20]], [12, [0, 1, 2, 3, 4, 5, 6, 7, 8, 9, 10, 11, 12, 13, 14, 15, 16, 17, 18, 19, 20, 21]], [12, [0, 1, 2, 3, 4, 5, 6, 7, 8, 9, 10, 11, 12, 13, 14, 15, 16, 17, 18, 19, 20, 21]], [13, [0, 1, 2, 3, 4, 5, 6, 7, 8, 9, 10, 11, 12, 13]], [13, [0, 1, 2, 3, 4, 5, 6, 7, 8, 9, 10, 11, 12, 13]], [13, [0, 1, 2, 3, 4, 5, 6, 7, 8, 9, 10, 11, 12, 13, 14]], [13, [0, 1, 2, 3, 4, 5, 6, 7, 8, 9, 10, 11, 12, 13, 14, 15, 16, 17, 18, 19]], [13, [0, 1, 2, 3, 4, 5, 6, 7, 8, 9, 10, 11, 12, 13, 14, 15, 16, 17, 18, 19, 20]], [13, [0, 1, 2, 3, 4, 5, 6, 7, 8, 9, 10, 11, 12, 13, 14, 15, 16, 17, 18, 19, 20]], [13, [0, 1, 2, 3, 4, 5, 6, 7, 8, 9, 10, 11, 12, 13, 14, 15, 16, 17, 18, 19, 20, 21]], [13, [0, 1, 2, 3, 4, 5, 6, 7, 8, 9, 10, 11, 12, 13, 14, 15, 16, 17, 18, 19, 20, 21]], [14, [0, 1, 2, 3, 4, 5, 6, 7, 8, 9, 10, 11, 12, 13, 14]], [14, [0, 1, 2, 3, 4, 5, 6, 7, 8, 9, 10, 11, 12, 13, 14, 15, 16, 17, 18, 19, 20]], [14, [0, 1, 2, 3, 4, 5, 6, 7, 8, 9, 10, 11, 12, 13, 14, 15, 16, 17, 18, 19, 20]], [14, [0, 1, 2, 3, 4, 5, 6, 7, 8, 9, 10, 11, 12, 13, 14, 15, 16, 17, 18, 19, 20, 21]], [14, [0, 1, 2, 3, 4, 5, 6, 7, 8, 9, 10, 11, 12, 13, 14, 15, 16, 17, 18, 19, 20, 21]], [15, [0, 1, 2, 3, 4, 5, 6, 7, 8, 9, 10, 11, 12, 13, 14, 15]], [15, [0, 1, 2, 3, 4, 5, 6, 7, 8, 9, 10, 11, 12, 13, 14, 15, 16, 17, 18, 19, 20]], [15, [0, 1, 2, 3, 4, 5, 6, 7, 8, 9, 10, 11, 12, 13, 14, 15, 16, 17, 18, 19, 20]], [15, [0, 1, 2, 3, 4, 5, 6, 7, 8, 9, 10, 11, 12, 13, 14, 15, 16, 17, 18, 19, 20, 21]], [15, [0, 1, 2, 3, 4, 5, 6, 7, 8, 9, 10, 11, 12, 13, 14, 15, 16, 17, 18, 19, 20, 21]], [16, [0, 1, 2, 3, 4, 5, 6, 7, 8, 9, 10, 11, 12, 13, 14, 15, 16]], [16, [0, 1, 2, 3, 4, 5, 6, 7, 8, 9, 10, 11, 12, 13, 14, 15, 16]], [16, [0, 1, 2, 3, 4, 5, 6, 7, 8, 9, 10, 11, 12, 13, 14, 15, 16, 17, 18, 19]], [16, [0, 1, 2, 3, 4, 5, 6, 7, 8, 9, 10, 11, 12, 13, 14, 15, 16, 17, 18, 19, 20]], [16, [0, 1, 2, 3, 4, 5, 6, 7, 8, 9, 10, 11, 12, 13, 14, 15, 16, 17, 18, 19, 20]], [16, [0, 1, 2, 3, 4, 5, 6, 7, 8, 9, 10, 11, 12, 13, 14, 15, 16, 17, 18, 19, 20, 21]], [16, [0, 1, 2, 3, 4, 5, 6, 7, 8, 9, 10, 11, 12, 13, 14, 15, 16, 17, 18, 19, 20, 21]], [17, [0, 1, 2, 3, 4, 5, 6, 7, 8, 9, 10, 11, 12, 13, 14, 15, 16, 17, 18, 19, 20, 21]], [18, [0, 1, 2, 3, 4, 5, 6, 7, 8, 9, 10, 11, 12, 13, 14, 15, 16, 17, 18, 19, 20]], [18, [0, 1, 2, 3, 4, 5, 6, 7, 8, 9, 10, 11, 12, 13, 14, 15, 16, 17, 18, 19, 20, 21]], [18, [0, 1, 2, 3, 4, 5, 6, 7, 8, 9, 10, 11, 12, 13, 14, 15, 16, 17, 18, 19, 20, 21]], [19, [0, 1, 2, 3, 4, 5, 6, 7, 8, 9, 10, 11, 12, 13, 14, 15, 16, 17, 18, 19]], [19, [0, 1, 2, 3, 4, 5, 6, 7, 8, 9, 10, 11, 12, 13, 14, 15, 16, 17, 18, 19]], [19, [0, 1, 2, 3, 4, 5, 6, 7, 8, 9, 10, 11, 12, 13, 14, 15, 16, 17, 18, 19, 20]], [19, [0, 1, 2, 3, 4, 5, 6, 7, 8, 9, 10, 11, 12, 13, 14, 15, 16, 17, 18, 19, 20]], [19, [0, 1, 2, 3, 4, 5, 6, 7, 8, 9, 10, 11, 12, 13, 14, 15, 16, 17, 18, 19, 20]], [19, [0, 1, 2, 3, 4, 5, 6, 7, 8, 9, 10, 11, 12, 13, 14, 15, 16, 17, 18, 19, 20, 21]], [19, [0, 1, 2, 3, 4, 5, 6, 7, 8, 9, 10, 11, 12, 13, 14, 15, 16, 17, 18, 19, 20, 21]], [20, [0, 1, 2, 3, 4, 5, 6, 7, 8, 9, 10, 11, 12, 13, 14, 15, 16, 17, 18, 19, 20]], [20, [0, 1, 2, 3, 4, 5, 6, 7, 8, 9, 10, 11, 12, 13, 14, 15, 16, 17, 18, 19, 20]], [20, [0, 1, 2, 3, 4, 5, 6, 7, 8, 9, 10, 11, 12, 13, 14, 15, 16, 17, 18, 19, 20]], [20, [0, 1, 2, 3, 4, 5, 6, 7, 8, 9, 10, 11, 12, 13, 14, 15, 16, 17, 18, 19, 20, 21]], [20, [0, 1, 2, 3, 4, 5, 6, 7, 8, 9, 10, 11, 12, 13, 14, 15, 16, 17, 18, 19, 20, 21]], [21, [0, 1, 2, 3, 4, 5, 6, 7, 8, 9, 10, 11, 12, 13, 14, 15, 16, 17, 18, 19, 20, 21]], [21, [0, 1, 2, 3, 4, 5, 6, 7, 8, 9, 10, 11, 12, 13, 14, 15, 16, 17, 18, 19, 20, 21]], [21, [0, 1, 2, 3, 4, 5, 6, 7, 8, 9, 10, 11, 12, 13, 14, 15, 16, 17, 18, 19, 20, 21]]]
+visualize.visualizeScat(voteHist6)
+visualize.barPlot(simulation.runModel(voteHist6,len(voteHist6[-1][-1])))
 
+print "7"
+voteHist7 = [[0, [0, 1, 2]], [0, [0, 1, 2]], [0, [0, 1, 2, 3, 4]], [0, [0, 1, 2, 3, 4]], [1, [0, 1, 2]], [1, [0, 1, 2]], [1, [0, 1, 2, 3]], [1, [0, 1, 2, 3, 4]], [1, [0, 1, 2, 3, 4]], [1, [0, 1, 2, 3, 4]], [3, [0, 1, 2, 3, 4]], [3, [0, 1, 2, 3, 4]], [3, [0, 1, 2, 3, 4]], [3, [0, 1, 2, 3, 4]], [4, [0, 1, 2, 3, 4]], [4, [0, 1, 2, 3, 4]], [4, [0, 1, 2, 3, 4]], [4, [0, 1, 2, 3, 4]], [4, [0, 1, 2, 3, 4]], [4, [0, 1, 2, 3, 4]], [4, [0, 1, 2, 3, 4]]]
+visualize.visualizeScat(voteHist7)
+visualize.barPlot(simulation.runModel(voteHist7,len(voteHist7[-1][-1])))
+
+# with Fake answer implementation
 print "8"
-voteHist8 = [[1, [0, 1, 2, 3, 4]], [1, [0, 1, 2, 3, 4]], [1, [0, 1, 2, 3, 4]], [1, [0, 1, 2, 3, 4]], [1, [0, 1, 2, 3, 4]], [1, [0, 1, 2, 3, 4, 5]], [1, [0, 1, 2, 3, 4, 5]], [1, [0, 1, 2, 3, 4, 5]], [1, [0, 1, 2, 3, 4, 5]], [1, [0, 1, 2, 3, 4, 5]], [1, [0, 1, 2, 3, 4, 5]], [1, [0, 1, 2, 3, 4, 5]], [0, [0, 1]], [2, [0, 1, 2, 3, 4]], [2, [0, 1, 2, 3, 4, 5]], [2, [0, 1, 2, 3, 4, 5]], [2, [0, 1, 2, 3, 4, 5]], [2, [0, 1, 2, 3, 4, 5]], [2, [0, 1, 2, 3, 4, 5]], [2, [0, 1, 2, 3, 4, 5]], [2, [0, 1, 2, 3, 4, 5]], [2, [0, 1, 2, 3, 4, 5]], [0, [0, 2]], [3, [0, 1, 2, 3, 4]], [3, [0, 1, 2, 3, 4]], [3, [0, 1, 2, 3, 4, 5]], [3, [0, 1, 2, 3, 4, 5]], [4, [0, 1, 2, 3, 4]], [4, [0, 1, 2, 3, 4, 5]], [4, [0, 1, 2, 3, 4, 5]], [4, [0, 1, 2, 3, 4, 5]], [4, [0, 1, 2, 3, 4, 5]], [4, [0, 1, 2, 3, 4, 5]], [5, [0, 1, 2, 3, 4, 5]], [5, [0, 1, 2, 3, 4, 5]], [5, [0, 1, 2, 3, 4, 5]], [5, [0, 1, 2, 3, 4, 5]], [5, [0, 1, 2, 3, 4, 5]], [5, [0, 1, 2, 3, 4, 5]]]#[[1, [0, 1, 2]], [1, [0, 1, 2, 3]], [1, [0, 1, 2, 3]], [1, [0, 1, 2, 3, 4]], [1, [0, 1, 2, 3, 4, 5]], [2, [0, 1, 2]], [2, [0, 1, 2]], [2, [0, 1, 2, 3]], [2, [0, 1, 2, 3, 4]], [2, [0, 1, 2, 3, 4]], [2, [0, 1, 2, 3, 4]], [2, [0, 1, 2, 3, 4, 5]], [3, [0, 1, 2, 3]], [3, [0, 1, 2, 3, 4]], [3, [0, 1, 2, 3, 4, 5]], [0, [0, 3]], [0, [0, 3]], [4, [0, 1, 2, 3, 4]], [4, [0, 1, 2, 3, 4, 5]], [5, [0, 1, 2, 3, 4, 5]]]#[[1, [0, 1, 2]], [1, [0, 1, 2, 3, 4, 5, 6, 7, 8]], [1, [0, 1, 2, 3, 4, 5, 6, 7, 8]], [1, [0, 1, 2, 3, 4, 5, 6, 7, 8]], [2, [0, 1, 2]], [2, [0, 1, 2]], [2, [0, 1, 2]], [2, [0, 1, 2]], [2, [0, 1, 2]], [2, [0, 1, 2, 3, 4, 5]], [2, [0, 1, 2, 3, 4, 5, 6]], [2, [0, 1, 2, 3, 4, 5, 6, 7]], [2, [0, 1, 2, 3, 4, 5, 6, 7]], [2, [0, 1, 2, 3, 4, 5, 6, 7]], [2, [0, 1, 2, 3, 4, 5, 6, 7]], [2, [0, 1, 2, 3, 4, 5, 6, 7]], [2, [0, 1, 2, 3, 4, 5, 6, 7, 8]], [2, [0, 1, 2, 3, 4, 5, 6, 7, 8]], [2, [0, 1, 2, 3, 4, 5, 6, 7, 8]], [2, [0, 1, 2, 3, 4, 5, 6, 7, 8]], [2, [0, 1, 2, 3, 4, 5, 6, 7, 8]], [2, [0, 1, 2, 3, 4, 5, 6, 7, 8]], [0, [0, 3]], [4, [0, 1, 2, 3, 4, 5, 6, 7, 8]], [5, [0, 1, 2, 3, 4, 5, 6, 7, 8]], [5, [0, 1, 2, 3, 4, 5, 6, 7, 8]], [5, [0, 1, 2, 3, 4, 5, 6, 7, 8]], [5, [0, 1, 2, 3, 4, 5, 6, 7, 8]], [6, [0, 1, 2, 3, 4, 5, 6, 7, 8]], [6, [0, 1, 2, 3, 4, 5, 6, 7, 8]], [7, [0, 1, 2, 3, 4, 5, 6, 7, 8]], [8, [0, 1, 2, 3, 4, 5, 6, 7, 8]]]
+#voteHist8 = [[1, [0, 1, 2, 3, 4]], [1, [0, 1, 2, 3, 4]], [1, [0, 1, 2, 3, 4]], [1, [0, 1, 2, 3, 4]], [1, [0, 1, 2, 3, 4]], [1, [0, 1, 2, 3, 4, 5]], [1, [0, 1, 2, 3, 4, 5]], [1, [0, 1, 2, 3, 4, 5]], [1, [0, 1, 2, 3, 4, 5]], [1, [0, 1, 2, 3, 4, 5]], [1, [0, 1, 2, 3, 4, 5]], [1, [0, 1, 2, 3, 4, 5]], [0, [0, 1]], [2, [0, 1, 2, 3, 4]], [2, [0, 1, 2, 3, 4, 5]], [2, [0, 1, 2, 3, 4, 5]], [2, [0, 1, 2, 3, 4, 5]], [2, [0, 1, 2, 3, 4, 5]], [2, [0, 1, 2, 3, 4, 5]], [2, [0, 1, 2, 3, 4, 5]], [2, [0, 1, 2, 3, 4, 5]], [2, [0, 1, 2, 3, 4, 5]], [0, [0, 2]], [3, [0, 1, 2, 3, 4]], [3, [0, 1, 2, 3, 4]], [3, [0, 1, 2, 3, 4, 5]], [3, [0, 1, 2, 3, 4, 5]], [4, [0, 1, 2, 3, 4]], [4, [0, 1, 2, 3, 4, 5]], [4, [0, 1, 2, 3, 4, 5]], [4, [0, 1, 2, 3, 4, 5]], [4, [0, 1, 2, 3, 4, 5]], [4, [0, 1, 2, 3, 4, 5]], [5, [0, 1, 2, 3, 4, 5]], [5, [0, 1, 2, 3, 4, 5]], [5, [0, 1, 2, 3, 4, 5]], [5, [0, 1, 2, 3, 4, 5]], [5, [0, 1, 2, 3, 4, 5]], [5, [0, 1, 2, 3, 4, 5]]]#[[1, [0, 1, 2]], [1, [0, 1, 2, 3]], [1, [0, 1, 2, 3]], [1, [0, 1, 2, 3, 4]], [1, [0, 1, 2, 3, 4, 5]], [2, [0, 1, 2]], [2, [0, 1, 2]], [2, [0, 1, 2, 3]], [2, [0, 1, 2, 3, 4]], [2, [0, 1, 2, 3, 4]], [2, [0, 1, 2, 3, 4]], [2, [0, 1, 2, 3, 4, 5]], [3, [0, 1, 2, 3]], [3, [0, 1, 2, 3, 4]], [3, [0, 1, 2, 3, 4, 5]], [0, [0, 3]], [0, [0, 3]], [4, [0, 1, 2, 3, 4]], [4, [0, 1, 2, 3, 4, 5]], [5, [0, 1, 2, 3, 4, 5]]]#[[1, [0, 1, 2]], [1, [0, 1, 2, 3, 4, 5, 6, 7, 8]], [1, [0, 1, 2, 3, 4, 5, 6, 7, 8]], [1, [0, 1, 2, 3, 4, 5, 6, 7, 8]], [2, [0, 1, 2]], [2, [0, 1, 2]], [2, [0, 1, 2]], [2, [0, 1, 2]], [2, [0, 1, 2]], [2, [0, 1, 2, 3, 4, 5]], [2, [0, 1, 2, 3, 4, 5, 6]], [2, [0, 1, 2, 3, 4, 5, 6, 7]], [2, [0, 1, 2, 3, 4, 5, 6, 7]], [2, [0, 1, 2, 3, 4, 5, 6, 7]], [2, [0, 1, 2, 3, 4, 5, 6, 7]], [2, [0, 1, 2, 3, 4, 5, 6, 7]], [2, [0, 1, 2, 3, 4, 5, 6, 7, 8]], [2, [0, 1, 2, 3, 4, 5, 6, 7, 8]], [2, [0, 1, 2, 3, 4, 5, 6, 7, 8]], [2, [0, 1, 2, 3, 4, 5, 6, 7, 8]], [2, [0, 1, 2, 3, 4, 5, 6, 7, 8]], [2, [0, 1, 2, 3, 4, 5, 6, 7, 8]], [0, [0, 3]], [4, [0, 1, 2, 3, 4, 5, 6, 7, 8]], [5, [0, 1, 2, 3, 4, 5, 6, 7, 8]], [5, [0, 1, 2, 3, 4, 5, 6, 7, 8]], [5, [0, 1, 2, 3, 4, 5, 6, 7, 8]], [5, [0, 1, 2, 3, 4, 5, 6, 7, 8]], [6, [0, 1, 2, 3, 4, 5, 6, 7, 8]], [6, [0, 1, 2, 3, 4, 5, 6, 7, 8]], [7, [0, 1, 2, 3, 4, 5, 6, 7, 8]], [8, [0, 1, 2, 3, 4, 5, 6, 7, 8]]]
+#voteHist8 = [[1, [0, 1, 2]], [1, [0, 1, 2, 3]], [1, [0, 1, 2, 3]], [1, [0, 1, 2, 3, 4]], [1, [0, 1, 2, 3, 4, 5]], [2, [0, 1, 2]], [2, [0, 1, 2]], [2, [0, 1, 2, 3]], [2, [0, 1, 2, 3, 4]], [2, [0, 1, 2, 3, 4]], [2, [0, 1, 2, 3, 4]], [2, [0, 1, 2, 3, 4, 5]], [3, [0, 1, 2, 3]], [3, [0, 1, 2, 3, 4]], [3, [0, 1, 2, 3, 4, 5]], [0, [0, 3]], [0, [0, 3]], [4, [0, 1, 2, 3, 4]], [4, [0, 1, 2, 3, 4, 5]], [5, [0, 1, 2, 3, 4, 5]]]
+voteHist8 = [[1, [0, 1, 2]], [1, [0, 1, 2, 3, 4, 5, 6, 7, 8]], [1, [0, 1, 2, 3, 4, 5, 6, 7, 8]], [1, [0, 1, 2, 3, 4, 5, 6, 7, 8]], [2, [0, 1, 2]], [2, [0, 1, 2]], [2, [0, 1, 2]], [2, [0, 1, 2]], [2, [0, 1, 2]], [2, [0, 1, 2, 3, 4, 5]], [2, [0, 1, 2, 3, 4, 5, 6]], [2, [0, 1, 2, 3, 4, 5, 6, 7]], [2, [0, 1, 2, 3, 4, 5, 6, 7]], [2, [0, 1, 2, 3, 4, 5, 6, 7]], [2, [0, 1, 2, 3, 4, 5, 6, 7]], [2, [0, 1, 2, 3, 4, 5, 6, 7]], [2, [0, 1, 2, 3, 4, 5, 6, 7, 8]], [2, [0, 1, 2, 3, 4, 5, 6, 7, 8]], [2, [0, 1, 2, 3, 4, 5, 6, 7, 8]], [2, [0, 1, 2, 3, 4, 5, 6, 7, 8]], [2, [0, 1, 2, 3, 4, 5, 6, 7, 8]], [2, [0, 1, 2, 3, 4, 5, 6, 7, 8]], [0, [0, 3]], [4, [0, 1, 2, 3, 4, 5, 6, 7, 8]], [5, [0, 1, 2, 3, 4, 5, 6, 7, 8]], [5, [0, 1, 2, 3, 4, 5, 6, 7, 8]], [5, [0, 1, 2, 3, 4, 5, 6, 7, 8]], [5, [0, 1, 2, 3, 4, 5, 6, 7, 8]], [6, [0, 1, 2, 3, 4, 5, 6, 7, 8]], [6, [0, 1, 2, 3, 4, 5, 6, 7, 8]], [7, [0, 1, 2, 3, 4, 5, 6, 7, 8]], [8, [0, 1, 2, 3, 4, 5, 6, 7, 8]]]
 visualize.visualizeScat(voteHist8)
 visualize.barPlot(simulation.runModel(voteHist8,voteHist8[-1][-1][-1]+1))
 
-print simulation.runModel(voteHist0,6)
-print simulation.runModel(voteHist1,6)
-print simulation.runModel(voteHist2,6)
-print simulation.runModel(voteHist3,6)
+#print simulation.runModel(voteHist0,6)
+#print simulation.runModel(voteHist1,6)
+#print simulation.runModel(voteHist2,6)
+#print simulation.runModel(voteHist3,6)

diff --git a/ver2/simulation.py b/ver2/simulation.py
@@ -107,6 +107,102 @@ def adaGrad(initialGuess, voteHist):
     print "numIteration: ",cnt
     return out
 
+##########################################################################
+## Objective function with User parameter also included                 ##
+##########################################################################
+def genHist(N, cDist):
+    np.random.seed(110)
+    vote = np.array([])
+    # Generate a bunch of clickers(users choices)
+    for i in range(N):
+        cvote = np.random.rand(1)
+        vote = np.append(vote,cvote)
+        dvote = np.digitize(vote, cDist)
+        #voteHist = [[v,np.ones_like(Theta)] for v in dvote]
+        voteHist = [[v,list(xrange(cDist.size))] for v in dvote]
+
+    return voteHist
+
+def objFuncUser(thetaVec, *args):
+    # get from args
+    uaidx = args[0]
+    qaidx = args[1]
+    uphiidx = args[2]
+    qvHist = args[3]
+
+    grad = np.zeros_like(thetaVec)
+
+    # get term 1: P(clicks|theta)
+    t1 = 0
+    for key in qvHist:
+        t1o, t1g = term1(thetaVec[qaidx[key]], qvHist[key])
+        #t1 += term1(thetaVec[qaidx[key]], qvHist[key])
+        t1 += t1o
+        grad[qaidx[key]] += t1g
+
+    # get term 2: P(theta|Phi)
+    # get term 3: P(Phi)
+    # FIXME: Does sigma/constant matter?
+    t2 = 0
+    t3 = 0
+    for key in uaidx:
+        t2 += np.sum(np.square(thetaVec[uaidx[key]] - thetaVec[uphiidx[key]]))
+        grad[uaidx[key]] += 2*(thetaVec[uaidx[key]] - thetaVec[uphiidx[key]])
+        grad[uphiidx[key]] += np.sum(-2*(thetaVec[uaidx[key]] - thetaVec[uphiidx[key]]))
+        t3 += np.square(thetaVec[uphiidx[key]])
+        grad[uphiidx[key]] += 2*thetaVec[uphiidx[key]]
+
+    # Final output
+    out = t1+t2+t3
+    return out,grad
+    #return out
+
+# Just for check grad
+def objFuncUserGrad(thetaVec, *args):
+    # get from args
+    uaidx = args[0]
+    qaidx = args[1]
+    uphiidx = args[2]
+    qvHist = args[3]
+
+    grad = np.zeros_like(thetaVec)
+
+    # get term 1: P(clicks|theta)
+    t1 = 0
+    #t1grad = 0
+    for key in qvHist:
+        t1o, t1g = term1(thetaVec[qaidx[key]], qvHist[key])
+        #t1 += term1(thetaVec[qaidx[key]], qvHist[key])
+        t1 += t1o
+        grad[qaidx[key]] += t1g
+
+    # get term 2: P(theta|Phi)
+    # get term 3: P(Phi)
+    # FIXME: Does sigma/constant matter?
+    t2 = 0
+    t3 = 0
+    for key in uaidx:
+        t2 += np.sum(np.square(thetaVec[uaidx[key]] - thetaVec[uphiidx[key]]))
+        grad[uaidx[key]] += 2*(thetaVec[uaidx[key]] - thetaVec[uphiidx[key]])
+        grad[uphiidx[key]] += np.sum(-2*(thetaVec[uaidx[key]] - thetaVec[uphiidx[key]]))
+        t3 += np.square(thetaVec[uphiidx[key]])
+        grad[uphiidx[key]] += 2*thetaVec[uphiidx[key]]
+
+    # Final output
+    #print t1+t2+t3
+    out = t1+t2+t3
+    return grad
+
+def term1(thetaVec, *args):
+    voteHist = args[0]
+    out = 0
+    grad = np.zeros_like(thetaVec)
+    for i in range(len(voteHist)):
+        out += objFunc2Core(thetaVec, voteHist[i])
+        grad += objFunc2CoreGrad(thetaVec, voteHist[i])
+
+    return out,grad
+
 # Simulate N new clicks from every iteration
 def simulateClicks(N, cDist):
     # Generate a bunch of clickers(users choices)
@@ -115,7 +211,7 @@ def simulateClicks(N, cDist):
     voteCount = np.histogram(vote, bins=cDist.size, range=(0,cDist.size))[0]
     #print "Votes for each answer:"
     #print voteCount
-    
+
     # Optimization
     initialVal = np.ones(10)*0.1
     #initialVal = np.random.randn(10)
@@ -136,7 +232,7 @@ def simulateClicks2(N, cDist, Theta):
         voteCount = np.histogram(dvote, bins=cDist.size, range=(0,cDist.size))[0]
         #print "Votes for each answer:"
         #print voteCount
-        
+
         # Optimization
         initialVal = np.ones(10)*0.1
         #initialVal = np.random.randn(10)
@@ -181,7 +277,7 @@ def runTest():
     # Generate sample Theta's which tells the relative goodness of answers
     # Suppose there are 10 answers
     Theta = np.random.randn(10)
-    
+
     # pDensity
     pDens = np.exp(Theta)/np.sum(np.exp(Theta))
     cDist = np.cumsum(pDens)
@@ -194,13 +290,13 @@ def runTest():
     print "Close the figure to run simulation"
     plt.savefig('PDF-sd%d.png'%sd)
     plt.show()
-    
+
     N = 200
     kTau = np.zeros(N)
     for i in range(N):
         ThetaEst = simulateClicks(i+1, cDist)
         kTau[i] = kendalltau(Theta, ThetaEst)[0]
-    
+
     kTau2 = simulateClicks2(N, cDist, Theta)
     kTau3 = simClicksTime(N, cDist, Theta)
     plt.plot(range(1, N+1),kTau, 'b')
@@ -210,3 +306,78 @@ def runTest():
     plt.xlabel('Number of clicks(N)')
     plt.savefig('KTau-sd%d.png'%sd)
     plt.show()
+
+def runTestUser(N):
+    sd = 110
+    np.random.seed(sd)
+    # Generate sample Phi's which tells the relative goodness of users
+    # Suppose there are 10 users
+    nUser = 10
+    Phi = np.random.randn(nUser)
+
+    # convert it to probability density function
+    # pDensity
+    pDens = np.exp(Phi)/np.sum(np.exp(Phi))
+    cDist = np.cumsum(pDens)
+    #aNum = np.ones(nUser)
+    #aNum[0] = 0
+    #aNum = np.cumsum(aNum)
+    #plt.bar(aNum, pDens)
+    #plt.plot(aNum, cDist)
+    #plt.title('PDensityF/CDistributionF')
+    #print "Close the figure to run simulation"
+    #plt.savefig('PDF-sd%d.png'%sd)
+    #plt.show()
+
+    # Generate sample Theta's which tells the relative goodness of answers
+    # Suppose every user has generated 10 answers
+    numAnsPuser = 10
+    Theta = np.zeros((nUser,numAnsPuser))
+    for i in range(nUser):
+        Theta[i,:] = np.random.randn(numAnsPuser)
+
+    Theta = Theta + Phi[np.newaxis].T
+
+    #N = 200     # num of clicks
+
+    # Prepare data structure to pass to objFuncUser
+    totalAns = numAnsPuser*nUser
+    qaidx = {}
+    uaidx = {}
+    qvHist = {}
+    uphiidx = {}
+    numQues = 10
+    numAnsPques = 10
+    #pdb.set_trace()
+    for i in xrange(numQues):
+        qaidx[i] = []
+        qvHist[i] = []
+
+    for i in xrange(nUser):
+        uaidx[i] = []
+        uphiidx[i] = totalAns+i
+
+    for i in xrange(totalAns):
+        qaidx[np.floor(i/numAnsPques)].append(i)
+        uaidx[i%numAnsPques].append(i)
+
+    #print(qaidx)
+    #print(uaidx)
+
+    # generate clicks for each ques
+    for i in xrange(numQues):
+        pDens = np.exp(Theta[:,i])/np.sum(np.exp(Theta[:,i]))
+        cDist = np.cumsum(pDens)
+        qvHist[i] = genHist(N, cDist)
+
+    # optimize
+    initialVal = np.ones(totalAns+nUser)*0.1
+    #print "Error with User:"
+    #print optimize.check_grad(objFuncUser,objFuncUserGrad,np.random.randn(totalAns+nUser),uaidx, qaidx, uphiidx, qvHist)
+    #sol, f, d = optimize.fmin_l_bfgs_b(objFuncUser, initialVal, approx_grad=1, args=(uaidx, qaidx, uphiidx, qvHist), disp=1)
+    sol, f, d = optimize.fmin_l_bfgs_b(objFuncUser, initialVal, args=(uaidx, qaidx, uphiidx, qvHist), disp=0)
+
+    #print Phi
+    #print sol
+    #print kendalltau(Phi,sol[100:110])
+    return kendalltau(Phi,sol[100:110])[0]

diff --git a/ver2/runTestSim.py b/ver2/runTestSim.py
@@ -1,5 +1,17 @@
 import simulation
 import visualize
+import numpy as np
+import matplotlib.pyplot as plt
 
-simulation.runTest()
-visualize.testVisualize()
+N=200
+kTau = np.zeros(N)
+for i in xrange(N):
+    print i
+    kTau[i] = simulation.runTestUser(i+1)
+plt.plot(range(1, N+1),kTau, 'b')
+plt.title('KendallTau')
+plt.xlabel('Number of clicks(N)')
+plt.savefig('KTau-User.png')
+plt.show()
+#simulation.runTest()
+#visualize.testVisualize()
